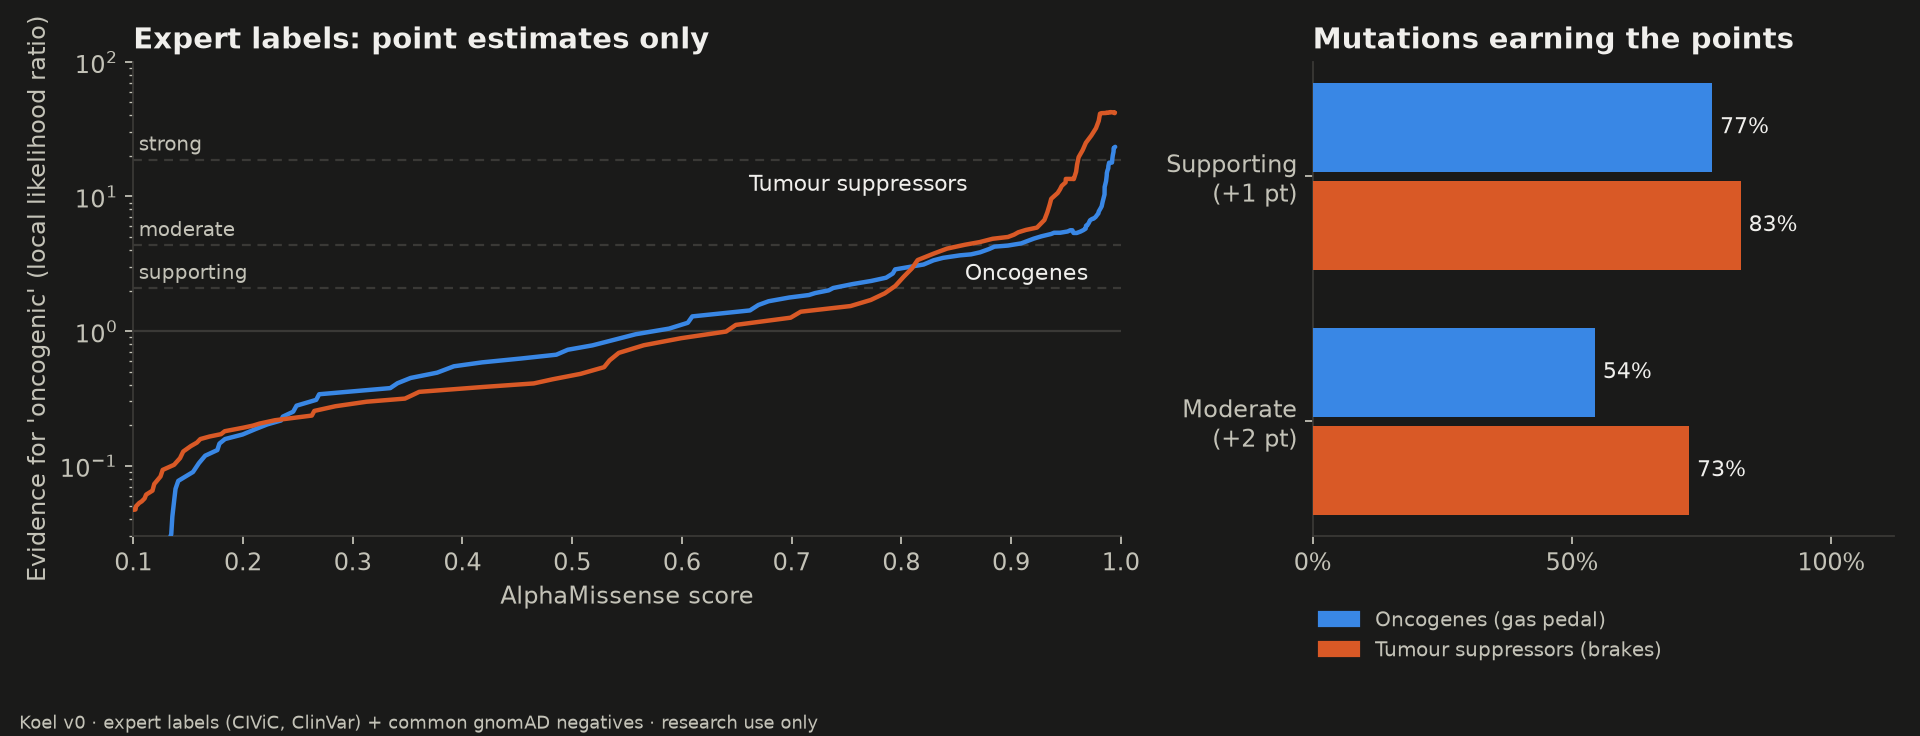
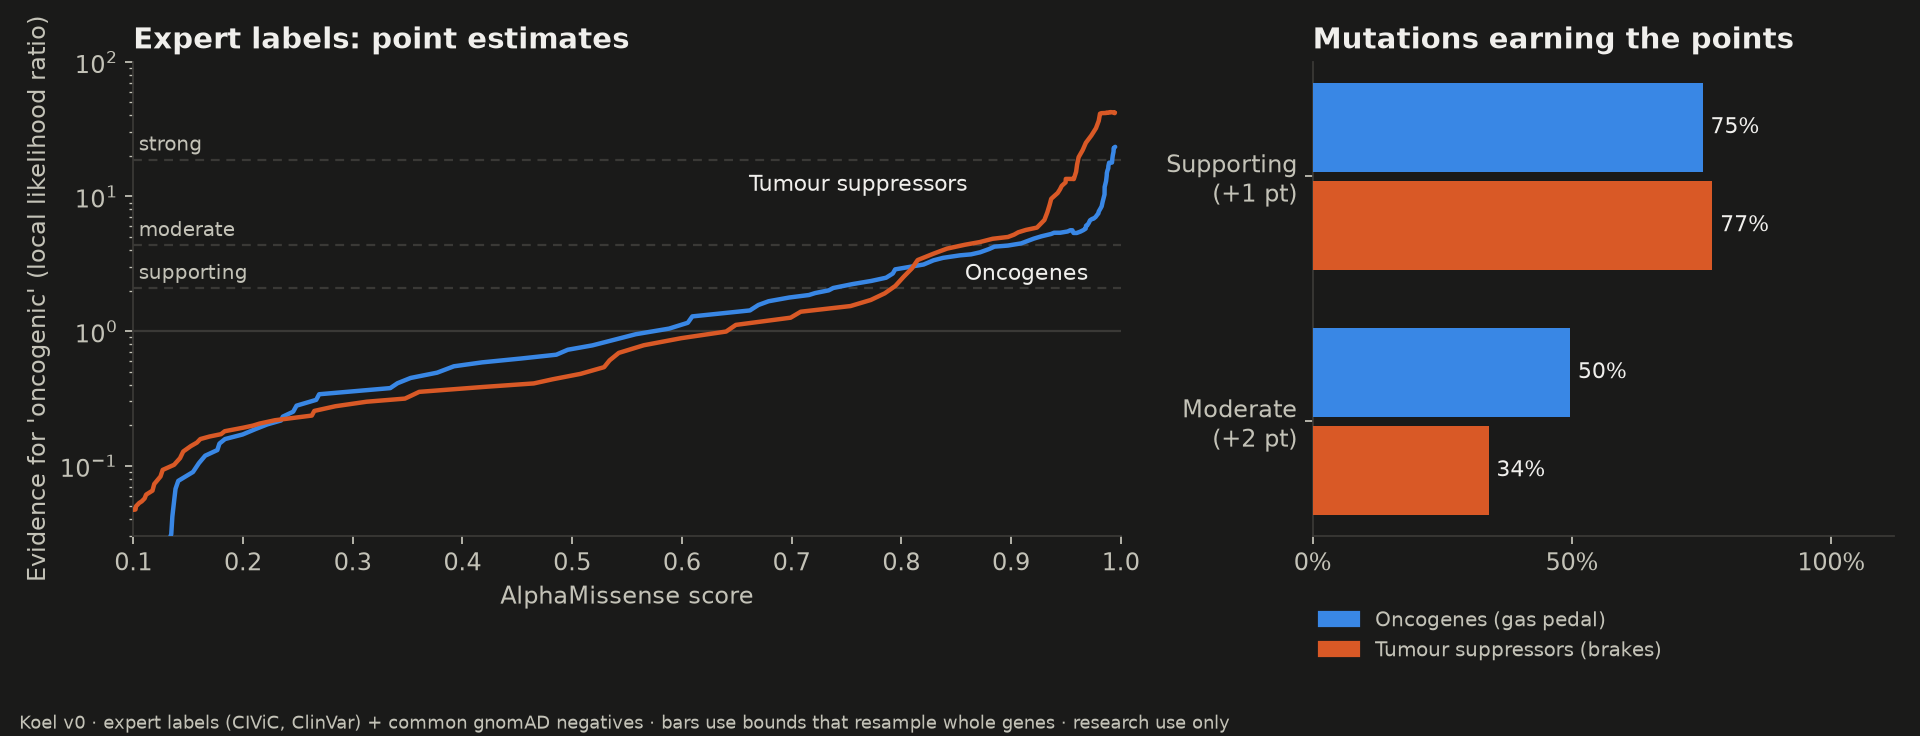
Trust table: resample whole genes inside the calibration
Bounds on the local likelihood ratios now come from a gene-level (cluster)
bootstrap, so mutations in the same gene are no longer treated as independent.
The older variant-level thresholds are kept in a comparison column.

On expert labels the apparent higher bar in oncogenes disappears (moderate:
>=0.987 in oncogenes, >=0.998 in tumour suppressors). The lab result is
unchanged. README, figure and roadmap updated to match.

diff --git a/src/koel/calibrate.py b/src/koel/calibrate.py
@@ -10,14 +10,20 @@ Method (after Tavtigian 2018 / Pejaver 2022, v0):
     ~10% of labelled variants), LR = P(near t | oncogenic) / P(near t | benign).
     Local, not "at or past t": a cumulative LR lets very high scores lend evidence to
     middling ones, which the first version of this module got wrong.
-  * Bootstrap (2,000 resamples). A threshold earns a strength only if the one-sided 95%
-    lower bound of the local LR clears the cut-off at t AND at every higher score
-    (benign side: upper bound below the reciprocal at t and every lower score).
+  * Bootstrap (2,000 resamples) of whole genes, not single variants. Variants in one
+    gene are not independent, and a few genes carry many of the labels, so resampling
+    variants gives intervals that are too narrow. A threshold earns a strength only if
+    the one-sided 95% lower bound of the local LR clears the cut-off at t AND at every
+    higher score (benign side: upper bound below the reciprocal at t and every lower
+    score). The variant-level threshold is kept in ``threshold_variant_level`` so the
+    cost of the honest interval is visible.
   * Cut-offs (Tavtigian 2018 OddsPath): supporting 2.08, moderate 4.33, strong 18.7,
     very strong 350. Points as in the somatic SOP: 1, 2, 4, 8.
   * The threshold reported is the loosest one that reaches the strength.
 
 Caveats printed with every run:
+  * With only 3-5 genes (the lab sets) a gene bootstrap is coarse: read those rows as
+    "what survives if any one gene is dropped or doubled", not as a precise interval.
   * Windowed LRs are a simplification of Pejaver's kernel-smoothed local posteriors.
   * Negatives are mostly common gnomAD variants, which AlphaMissense saw as "benign"
     in training, so LRs are optimistic, more so on the benign side.
@@ -66,6 +72,7 @@ def _local_lr(pos: np.ndarray, neg: np.ndarray, lo: np.ndarray, hi: np.ndarray) 
 
 
 def _boot_bounds(pos, neg, lo, hi, seed=11):
+    """Variant-level bootstrap: every variant treated as independent."""
     rng = np.random.default_rng(seed)
     b = np.array([_local_lr(rng.choice(pos, len(pos)), rng.choice(neg, len(neg)), lo, hi)
                   for _ in range(N_BOOT)])
@@ -73,36 +80,79 @@ def _boot_bounds(pos, neg, lo, hi, seed=11):
     return np.percentile(b, 5, axis=0), np.percentile(b, 95, axis=0)
 
 
+def _window_counts(x: np.ndarray, genes: np.ndarray, names: np.ndarray, lo, hi):
+    """Per gene: how many of its variants fall in each window, and how many it has."""
+    counts = np.zeros((len(names), len(lo)))
+    totals = np.zeros(len(names))
+    for i, g in enumerate(names):
+        s = np.sort(x[genes == g])
+        counts[i] = np.searchsorted(s, hi, "right") - np.searchsorted(s, lo, "left")
+        totals[i] = len(s)
+    return counts, totals
+
+
+def _gene_boot_bounds(pos, neg, pos_genes, neg_genes, lo, hi, seed=11):
+    """Gene-level (cluster) bootstrap: resample whole genes with replacement."""
+    names = np.unique(np.r_[pos_genes, neg_genes])
+    pc, pn = _window_counts(pos, pos_genes, names, lo, hi)
+    qc, qn = _window_counts(neg, neg_genes, names, lo, hi)
+    rng = np.random.default_rng(seed)
+    g = len(names)
+    m = rng.multinomial(g, np.full(g, 1 / g), size=N_BOOT).astype(float)  # gene multiplicities
+    eps = 0.5
+    b = ((m @ pc + eps) / (m @ pn + eps)[:, None]) / ((m @ qc + eps) / (m @ qn + eps)[:, None])
+    return np.percentile(b, 5, axis=0), np.percentile(b, 95, axis=0)
+
+
+def _loosest(lb, ub, direction: str, cut: float):
+    """Index of the loosest grid point that earns ``cut``, or None.
+
+    A threshold earns a strength only if every score beyond it does too: running minimum
+    of the lower bound from the top, running maximum of the upper bound from the bottom.
+    """
+    if direction == "oncogenic":
+        ok = np.where(np.minimum.accumulate(lb[::-1])[::-1] >= cut)[0]
+        return ok[0] if len(ok) else None
+    ok = np.where(np.maximum.accumulate(ub) <= 1 / cut)[0]
+    return ok[-1] if len(ok) else None
+
+
+def _fmt(t: float, direction: str, sign: float) -> str:
+    op = ">=" if (direction == "oncogenic") == (sign > 0) else "<="
+    return f"{op}{sign * t:.3f}"
+
+
 def trust_rows(pos: np.ndarray, neg: np.ndarray, sign: float, labels: str, role: str,
-               predictor: str) -> list[dict]:
+               predictor: str, pos_genes: np.ndarray | None = None,
+               neg_genes: np.ndarray | None = None) -> list[dict]:
+    """Thresholds per strength. With gene names, bounds come from resampling whole genes."""
     grid, lo, hi = _windows(pos, neg)
     lr = _local_lr(pos, neg, lo, hi)
-    lb, ub = _boot_bounds(pos, neg, lo, hi)
-    # A threshold earns a strength only if every score beyond it does too:
-    # running minimum of the lower bound from the top, maximum of the upper from the bottom.
-    lb_tail = np.minimum.accumulate(lb[::-1])[::-1]
-    ub_tail = np.maximum.accumulate(ub)
+    v_lb, v_ub = _boot_bounds(pos, neg, lo, hi)
+    by_gene = pos_genes is not None and neg_genes is not None
+    lb, ub = _gene_boot_bounds(pos, neg, pos_genes, neg_genes, lo, hi) if by_gene else (v_lb, v_ub)
     base = {"labels": labels, "gene_role": role, "predictor": predictor,
-            "n_oncogenic": len(pos), "n_benign": len(neg)}
+            "n_oncogenic": len(pos), "n_benign": len(neg),
+            "resampling": "genes" if by_gene else "variants",
+            "n_genes": len(np.unique(np.r_[pos_genes, neg_genes])) if by_gene else np.nan}
     rows = []
     for direction in ("oncogenic", "benign"):
         for name, cut, pts in STRENGTHS:
-            ok = np.where(lb_tail >= cut)[0] if direction == "oncogenic" else \
-                np.where(ub_tail <= 1 / cut)[0]
+            j = _loosest(v_lb, v_ub, direction, cut)
             row = {**base, "direction": direction, "strength": name,
-                   "points": pts if direction == "oncogenic" else -pts}
-            if not len(ok):
+                   "points": pts if direction == "oncogenic" else -pts,
+                   "threshold_variant_level":
+                       "not reached" if j is None else _fmt(grid[j], direction, sign)}
+            i = _loosest(lb, ub, direction, cut)
+            if i is None:
                 rows.append({**row, "threshold": "not reached"})
                 continue
-            i = ok[0] if direction == "oncogenic" else ok[-1]  # loosest qualifying
             t = grid[i]
             if direction == "oncogenic":
-                op, reach_p, reach_n, bound = ">=", (pos >= t).mean(), (neg >= t).mean(), lb[i]
+                reach_p, reach_n, bound = (pos >= t).mean(), (neg >= t).mean(), lb[i]
             else:
-                op, reach_p, reach_n, bound = "<=", (pos <= t).mean(), (neg <= t).mean(), ub[i]
-            if sign < 0:
-                op = "<=" if op == ">=" else ">="
-            rows.append({**row, "threshold": f"{op}{sign * t:.3f}", "local_lr": lr[i],
+                reach_p, reach_n, bound = (pos <= t).mean(), (neg <= t).mean(), ub[i]
+            rows.append({**row, "threshold": _fmt(t, direction, sign), "local_lr": lr[i],
                          "lr_bound": bound, "share_oncogenic_reached": float(reach_p),
                          "share_benign_reached": float(reach_n)})
     return rows
@@ -121,11 +171,14 @@ def _table(d: pd.DataFrame, labels: str, roles: list[str], label_col: str = "lab
     for role in roles:
         sub = d if role == "all" else d[d["gene_role"] == role]
         for name, (col, sign) in PREDICTORS.items():
-            pos = sign * sub.loc[sub[label_col] == 1, col].to_numpy()
-            neg = sign * sub.loc[sub[label_col] == 0, col].to_numpy()
+            is_pos, is_neg = sub[label_col] == 1, sub[label_col] == 0
+            pos = sign * sub.loc[is_pos, col].to_numpy()
+            neg = sign * sub.loc[is_neg, col].to_numpy()
             if len(pos) < MIN_PER_CLASS or len(neg) < MIN_PER_CLASS:
                 continue
-            rows += trust_rows(pos, neg, sign, labels, role, name)
+            rows += trust_rows(pos, neg, sign, labels, role, name,
+                               sub.loc[is_pos, "gene"].to_numpy(),
+                               sub.loc[is_neg, "gene"].to_numpy())
     return rows
 
 
@@ -187,8 +240,8 @@ def build() -> pd.DataFrame:
     val.to_csv(PROCESSED / "trust_table_validation.csv", index=False)
 
     show = res[res["threshold"] != "not reached"][
-        ["labels", "gene_role", "predictor", "direction", "strength", "points", "threshold",
-         "local_lr", "lr_bound", "share_oncogenic_reached", "share_benign_reached"]]
+        ["labels", "gene_role", "n_genes", "predictor", "direction", "strength", "points",
+         "threshold", "threshold_variant_level", "local_lr", "lr_bound", "share_oncogenic_reached", "share_benign_reached"]]
     with pd.option_context("display.float_format", "{:.2f}".format, "display.width", 220,
                            "display.max_rows", 200):
         print(show.to_string(index=False))
@@ -198,6 +251,8 @@ def build() -> pd.DataFrame:
                 .agg(", ".join).to_string())
         print("\nHeld-out check (thresholds learnt without post-release positives):")
         print(val.to_string(index=False))
+    print("\nBounds resample whole genes; threshold_variant_level is what resampling single"
+          " variants would have given.")
     print("\nlocal_lr = LR among variants scoring near the threshold; lr_bound = its one-sided"
           " 95% bound, which must clear the cut-off at the threshold and every score beyond.")
     print("Negatives are mostly common gnomAD variants: LRs are optimistic. Research use only.")

diff --git a/tests/test_calibrate.py b/tests/test_calibrate.py
@@ -2,7 +2,8 @@
 
 import numpy as np
 
-from koel.calibrate import STRENGTHS, _local_lr, _windows, trust_rows
+from koel.calibrate import (STRENGTHS, _boot_bounds, _gene_boot_bounds, _local_lr, _windows,
+                            trust_rows)
 
 
 def _synthetic(n=400, seed=0):
@@ -45,3 +46,31 @@ def test_negative_sign_reports_original_units():
 
 def test_strength_cutoffs_match_tavtigian():
     assert [c for _, c, _ in STRENGTHS] == [2.08, 4.33, 18.7, 350.0]
+
+
+def test_gene_bootstrap_matches_variant_bootstrap_when_every_variant_is_its_own_gene():
+    pos, neg = _synthetic(200)
+    _, lo, hi = _windows(pos, neg)
+    v_lb, v_ub = _boot_bounds(pos, neg, lo, hi)
+    genes_p, genes_n = np.arange(200), np.arange(200, 400)
+    g_lb, g_ub = _gene_boot_bounds(pos, neg, genes_p, genes_n, lo, hi)
+    for gene, variant in ((g_lb, v_lb), (g_ub, v_ub)):
+        gap = np.abs(np.log(gene) - np.log(variant))
+        assert np.median(gap) < 0.1  # same answer, up to bootstrap noise
+        assert np.percentile(gap, 95) < 0.3
+
+
+def test_gene_bootstrap_is_wider_when_one_gene_carries_the_signal():
+    rng = np.random.default_rng(3)
+    # Ten genes; only gene 0 has high-scoring positives. The rest are noise.
+    pos = np.r_[rng.uniform(0.9, 1.0, 200), rng.uniform(0, 1, 180)]
+    pos_genes = np.r_[np.zeros(200, int), np.repeat(np.arange(1, 10), 20)]
+    neg = rng.uniform(0, 1, 400)
+    neg_genes = np.repeat(np.arange(10), 40)
+    by_variant = trust_rows(pos, neg, 1.0, "s", "x", "P")
+    by_gene = trust_rows(pos, neg, 1.0, "s", "x", "P", pos_genes, neg_genes)
+    reached = lambda rows: [r["strength"] for r in rows
+                            if r["direction"] == "oncogenic" and r["threshold"] != "not reached"]
+    assert "supporting" in reached(by_variant)
+    assert reached(by_gene) == []
+    assert by_gene[0]["threshold_variant_level"] == by_variant[0]["threshold"]

diff --git a/src/koel/figures.py b/src/koel/figures.py
@@ -102,7 +102,7 @@ def build() -> None:
         ax.set_ylim(0.03, 100)
         ax.set_xlabel("AlphaMissense score")
         ax.set_ylabel("Evidence for 'oncogenic' (local likelihood ratio)")
-        ax.set_title("Expert labels: point estimates only", loc="left", fontsize=13,
+        ax.set_title("Expert labels: point estimates", loc="left", fontsize=13,
                      fontweight="bold", color=th["ink"])
         ax.grid(False)
 
@@ -127,7 +127,7 @@ def build() -> None:
                   bbox_to_anchor=(-0.02, -0.12), ncol=1, fontsize=9, labelcolor=th["ink2"])
 
         fig.text(0.01, 0.01, "Koel v0 · expert labels (CIViC, ClinVar) + common gnomAD negatives · "
-                 "research use only", color=th["ink2"], fontsize=8)
+                 "bars use bounds that resample whole genes · research use only", color=th["ink2"], fontsize=8)
         fig.tight_layout(rect=(0, 0.04, 1, 1))
         path = OUT / f"trust_curve_{mode}.png"
         fig.savefig(path, facecolor=th["surface"])

diff --git a/README.md b/README.md
@@ -26,7 +26,7 @@ It depends on the gene. Koel measures how much.*
 
 <picture>
   <source media="(prefers-color-scheme: dark)" srcset="docs/figures/trust_curve_dark.png">
-  <img alt="Two charts based on expert labels (point estimates, not significant at gene level). Left: the evidence an AlphaMissense score gives that a mutation is cancer-causing, plotted against the score, for oncogenes and tumour suppressors. Above about 0.9 the tumour suppressor curve rises faster. Right: share of known cancer-causing mutations that earn evidence points. Supporting: 77% in oncogenes vs 83% in tumour suppressors. Moderate: 54% vs 73%." src="docs/figures/trust_curve_light.png">
+  <img alt="Two charts based on expert labels. Left: the evidence an AlphaMissense score gives that a mutation is cancer-causing, plotted against the score, for oncogenes and tumour suppressors (point estimates). The two curves stay close until about 0.9, where the tumour suppressor curve rises faster. Right: share of known cancer-causing mutations that earn evidence points when whole genes are resampled. Supporting: 75% in oncogenes vs 77% in tumour suppressors. Moderate: 50% vs 34%." src="docs/figures/trust_curve_light.png">
 </picture>
 
 ## The problem in 30 seconds
@@ -73,19 +73,26 @@ This holds when whole genes are resampled, but rests on only 5 gas-pedal and 3 b
 
 ### 2. The trust table (expert labels)
 
-The AlphaMissense score that earns each level of evidence (one-sided 95% bootstrap
-bound on local likelihood ratios; [method](src/koel/calibrate.py)):
+The AlphaMissense score that earns each level of evidence (one-sided 95% bound on local
+likelihood ratios, **resampling whole genes**: 79 oncogenes, 47 tumour suppressors;
+[method](src/koel/calibrate.py)):
 
 | Evidence level | Oncogenes (gas pedal) | Tumour suppressors (brakes) |
 |---|---|---|
-| Supporting (+1 point) | score ≥ **0.885**, reached by 77% of cancer mutations | score ≥ **0.830**, reached by 83% |
-| Moderate (+2 points) | score ≥ **0.982**, reached by 54% | score ≥ **0.943**, reached by 73% |
-| Benign supporting (−1 point) | score ≤ 0.269 | score ≤ 0.284 |
+| Supporting (+1 point) | score ≥ **0.903**, reached by 75% of cancer mutations | score ≥ **0.913**, reached by 77% |
+| Moderate (+2 points) | score ≥ **0.987**, reached by 50% | score ≥ **0.998**, reached by 34% |
+| Strong (+4 points) | not reached | not reached |
+| Benign supporting (−1 point) | score ≤ 0.246 | score ≤ 0.158 |
 
-The point estimates put oncogene thresholds higher, but these bounds resample mutations,
-not genes. **The oncogene-versus-tumour-suppressor difference is not statistically clear
-at the gene level**, so read the two columns as estimates, not a proven gap.
-The full table (including ESM1b) is written to `data/processed/trust_table.csv`.
+**On expert labels, oncogenes do not need a higher score than tumour suppressors.** An
+earlier version of this table resampled single mutations and gave looser thresholds
+(moderate: ≥ 0.982 vs ≥ 0.943), which looked like a higher bar in oncogenes. That gap came
+from treating mutations in the same gene as independent, and it disappears when whole genes
+are resampled. At moderate strength the tumour suppressors now need the higher score; Koel
+has not tested whether that difference is itself reliable.
+
+The full table (including ESM1b) is written to `data/processed/trust_table.csv`. Its
+`threshold_variant_level` column keeps the older, looser thresholds for comparison.
 
 ### 3. Held-out test: mutations classified after AlphaMissense came out
 
@@ -98,7 +105,7 @@ The full table (including ESM1b) is written to `data/processed/trust_table.csv`.
 
 The difference (−4.8 points) has a gene-level 95% CI of −13.5 to +16.5: **no clear
 difference** between gene types on expert labels. An independent analysis (Lee, OncoCal,
-in revision) reaches the same conclusion: the direction agrees, the evidence is weak.
+in revision) reaches the same conclusion.
 
 ### Known limitations
 
@@ -183,7 +190,7 @@ Data files are downloaded, never committed. Koel's **code** is MIT licensed. Any
 - [x] Accuracy per gene type, lab comparison, held-out time split
 - [x] Trust table v0 (AlphaMissense, ESM1b)
 - [x] Gene-level (cluster) bootstrap for headline claims
-- [ ] Gene-level bootstrap inside the trust-table calibration
+- [x] Gene-level bootstrap inside the trust-table calibration
 - [ ] OncoCal out-of-fold scores as a baseline to beat
 - [ ] More predictors, where their licences allow
 - [x] Lab data for oncogenes (MAPK atlas: KRAS, BRAF, EGFR, ERBB2, MAP2K1)
